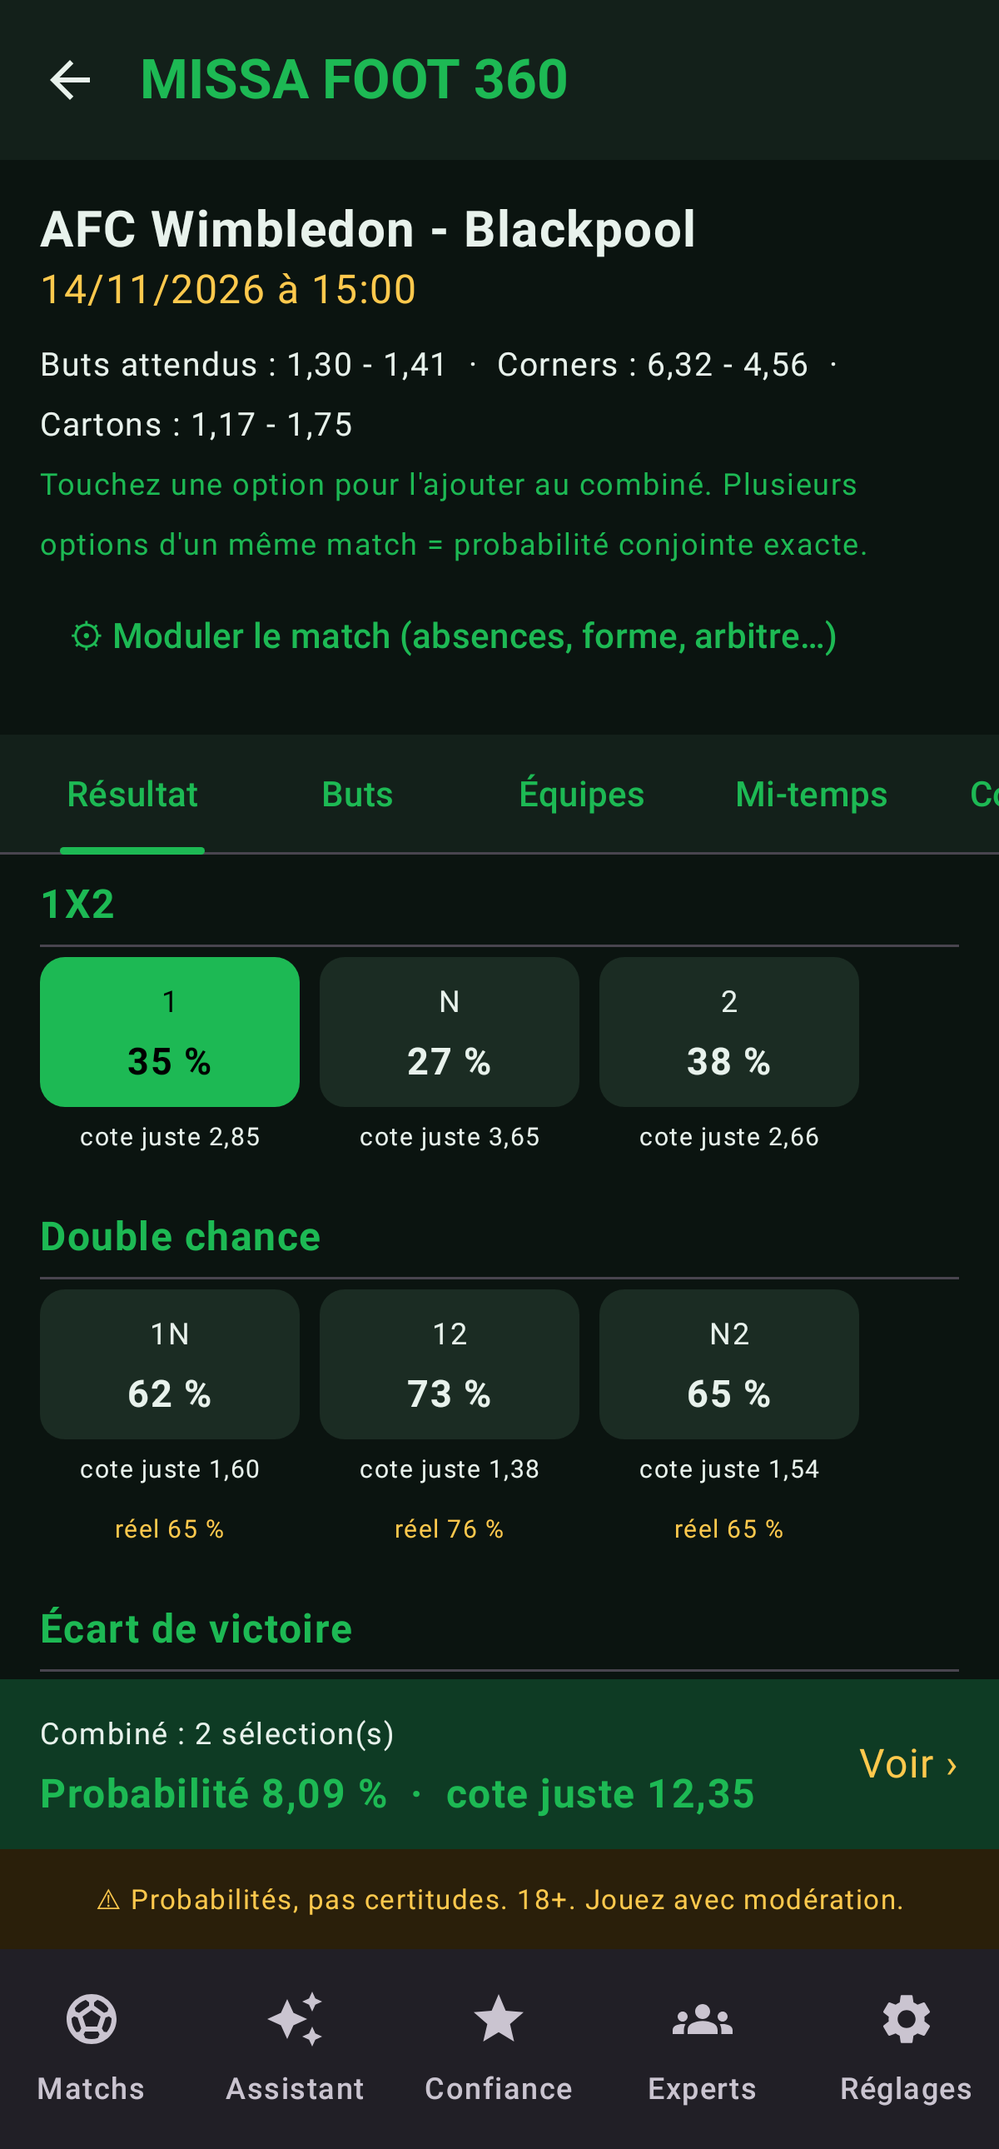
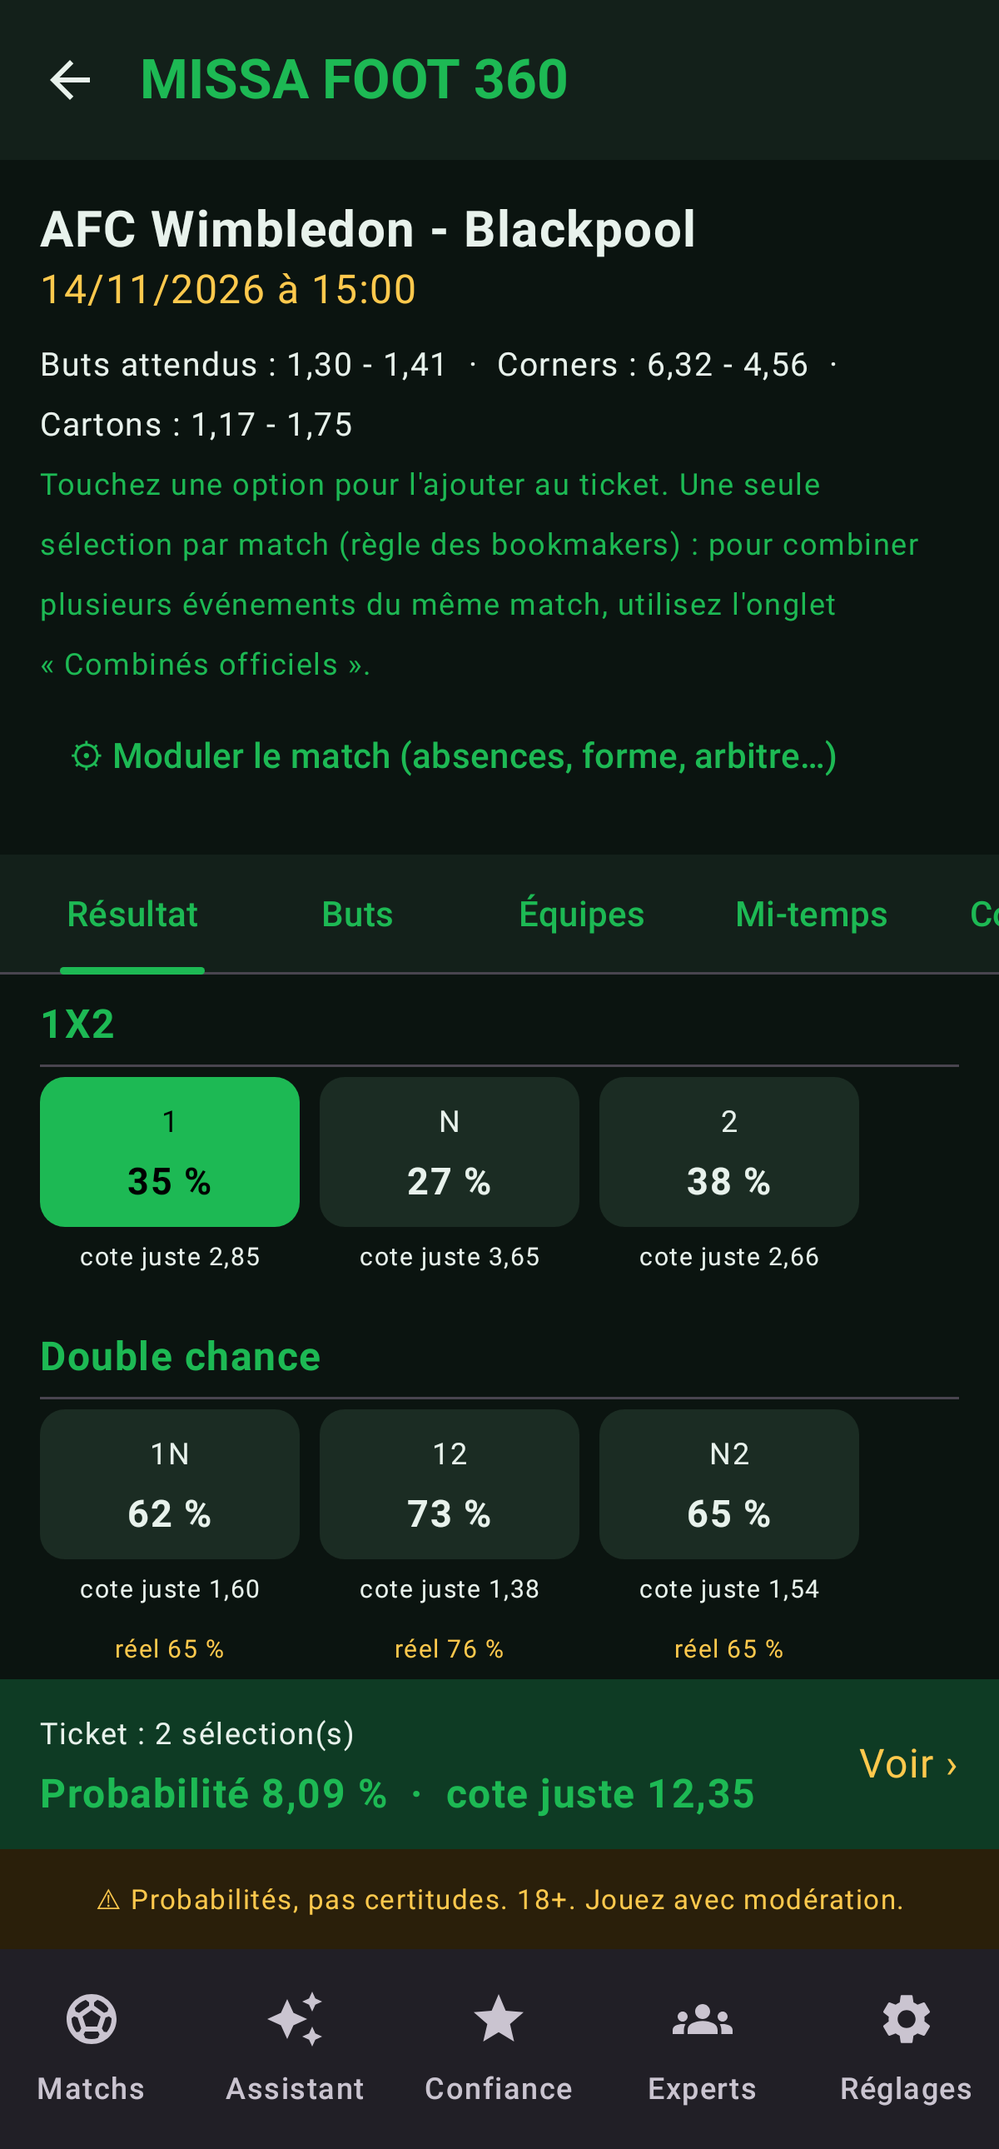
Règle du ticket : une sélection par match (remplacement avec message), 60 sélections max, repère bonus < 1,10 ; mode analyse libre en option ; règle appliquée aussi par l'API
Claude-Session: https://claude.ai/code/session_01JzZ5bfRfBm6NJrwqaGBrNM

diff --git a/android/app/src/main/java/com/missa/foot360/ui/AppViewModel.kt b/android/app/src/main/java/com/missa/foot360/ui/AppViewModel.kt
@@ -12,6 +12,7 @@ import com.missa.foot360.moteur.JambeCombine
 import com.missa.foot360.moteur.Jumeau
 import com.missa.foot360.moteur.Modulation
 import com.missa.foot360.moteur.ParamsJumeau
+import com.missa.foot360.moteur.RegleTicket
 import com.missa.foot360.moteur.ResultatCombine
 import com.missa.foot360.moteur.calculerCombine
 import kotlinx.coroutines.flow.MutableStateFlow
@@ -30,6 +31,8 @@ data class EtatApp(
     val resultat: ResultatCombine? = null,
     val modulations: Map<String, Modulation> = emptyMap(),
     val bonus: Double = 0.0,
+    val unParMatch: Boolean = true,
+    val message: String? = null,
 ) {
     val matchs: Map<String, Match> by lazy {
         pronostics.championnats.flatMap { it.matchs }.associateBy { it.id }
@@ -56,7 +59,23 @@ class AppViewModel(app: Application) : AndroidViewModel(app) {
     val etat: StateFlow<EtatApp> = _etat.asStateFlow()
     private val cacheJumeaux = HashMap<Pair<String, Modulation>, Jumeau>()
 
-    init { charger() }
+    init {
+        _etat.update { it.copy(unParMatch = !depot.plusieursParMatch) }
+        charger()
+    }
+
+    fun messageVu() = _etat.update { it.copy(message = null) }
+
+    /** Mode ticket (une sélection par match, comme chez le bookmaker) ou analyse libre. */
+    fun changerMode(unParMatch: Boolean) {
+        depot.plusieursParMatch = !unParMatch
+        _etat.update { e ->
+            val t = if (unParMatch) RegleTicket.normaliser(e.combi) else e.combi
+            e.copy(unParMatch = unParMatch, combi = t,
+                message = if (unParMatch && t.size < e.combi.size) "Ticket corrigé : une seule sélection gardée par match." else null)
+        }
+        recalculer()
+    }
 
     fun charger() = viewModelScope.launch {
         _etat.update { it.copy(chargement = true) }
@@ -91,20 +110,20 @@ class AppViewModel(app: Application) : AndroidViewModel(app) {
     fun estSelectionne(matchId: String, code: String) =
         _etat.value.combi.any { it.matchId == matchId && it.code == code }
 
-    /** Ajoute ou retire une sélection : la probabilité du combiné est recalculée immédiatement. */
+    /** Ajoute ou retire une sélection en respectant les règles du ticket ; recalcul immédiat. */
     fun basculer(match: Match, code: String, libelle: String) {
         _etat.update { e ->
-            val existe = e.combi.any { it.matchId == match.id && it.code == code }
-            val nouvelle = if (existe) e.combi.filterNot { it.matchId == match.id && it.code == code }
-            else e.combi + JambeCombine(match.id, code, "${match.domicile} - ${match.exterieur}", libelle)
-            e.copy(combi = nouvelle)
+            val r = RegleTicket.basculer(e.combi,
+                JambeCombine(match.id, code, "${match.domicile} - ${match.exterieur}", libelle), e.unParMatch)
+            e.copy(combi = r.ticket, message = r.message)
         }
         recalculer()
     }
 
     fun ajouterPlusieurs(jambes: List<JambeCombine>) {
         _etat.update { e ->
-            e.copy(combi = e.combi + jambes.filter { j -> e.combi.none { it.matchId == j.matchId && it.code == j.code } })
+            val r = RegleTicket.ajouterPlusieurs(e.combi, jambes, e.unParMatch)
+            e.copy(combi = r.ticket, message = r.message)
         }
         recalculer()
     }

diff --git a/android/app/src/main/java/com/missa/foot360/moteur/Ticket.kt b/android/app/src/main/java/com/missa/foot360/moteur/Ticket.kt
@@ -1,0 +1,57 @@
+package com.missa.foot360.moteur
+
+/**
+ * Règles d'un ticket combiné chez un bookmaker (ex. BetPawa) :
+ * - une seule sélection par match : les sélections d'un même match sont dépendantes et ne sont
+ *   pas acceptées ensemble (les combinés officiels « 1X2 & les deux marquent », etc. comptent
+ *   pour UNE sélection) ;
+ * - 60 sélections au maximum ;
+ * - le bonus de gains ne concerne que les sélections à 1,10 ou plus.
+ */
+object RegleTicket {
+    const val MAX_SELECTIONS = 60
+    const val COTE_MIN_BONUS = 1.10
+
+    data class Resultat(val ticket: List<JambeCombine>, val message: String?)
+
+    /** Ajoute (ou retire si déjà présente) une sélection en respectant les règles du ticket. */
+    fun basculer(ticket: List<JambeCombine>, jambe: JambeCombine, unParMatch: Boolean): Resultat {
+        if (ticket.any { it.matchId == jambe.matchId && it.code == jambe.code }) {
+            return Resultat(ticket.filterNot { it.matchId == jambe.matchId && it.code == jambe.code }, null)
+        }
+        if (unParMatch) {
+            val ancienne = ticket.firstOrNull { it.matchId == jambe.matchId }
+            if (ancienne != null) {
+                return Resultat(
+                    ticket.map { if (it.matchId == jambe.matchId) jambe else it },
+                    "« ${ancienne.libelle} » remplacé par « ${jambe.libelle} » : un seul pari par match sur un ticket.",
+                )
+            }
+        }
+        if (ticket.size >= MAX_SELECTIONS) {
+            return Resultat(ticket, "Un ticket est limité à $MAX_SELECTIONS sélections.")
+        }
+        return Resultat(ticket + jambe, null)
+    }
+
+    /** Ajoute plusieurs sélections (assistant) : chacune remplace celle de son match. */
+    fun ajouterPlusieurs(ticket: List<JambeCombine>, jambes: List<JambeCombine>, unParMatch: Boolean): Resultat {
+        var t = ticket
+        var remplacees = 0
+        for (j in jambes) {
+            if (t.any { it.matchId == j.matchId && it.code == j.code }) continue
+            val r = basculer(t, j, unParMatch)
+            if (r.ticket.size == t.size && r.message != null && r.ticket != t) remplacees++
+            t = r.ticket
+        }
+        return Resultat(t, if (remplacees > 0) "$remplacees sélection(s) remplacée(s) : un seul pari par match." else null)
+    }
+
+    /** Passage en mode ticket : on ne garde que la dernière sélection de chaque match. */
+    fun normaliser(ticket: List<JambeCombine>): List<JambeCombine> =
+        ticket.reversed().distinctBy { it.matchId }.reversed()
+
+    /** Sélections dont la cote (saisie, sinon cote juste) est sous le minimum du bonus. */
+    fun horsBonus(ticket: List<JambeCombine>, coteJuste: (JambeCombine) -> Double?): List<JambeCombine> =
+        ticket.filter { j -> (j.cote ?: coteJuste(j))?.let { it < COTE_MIN_BONUS } == true }
+}

diff --git a/android/app/src/main/java/com/missa/foot360/ui/EcranCombi.kt b/android/app/src/main/java/com/missa/foot360/ui/EcranCombi.kt
@@ -45,7 +45,7 @@ fun BarreCombi(etat: EtatApp, ouvrir: () -> Unit) {
         verticalAlignment = Alignment.CenterVertically,
     ) {
         Column(Modifier.weight(1f)) {
-            Text("Combiné : ${etat.combi.size} sélection(s)", fontSize = 12.sp)
+            Text((if (etat.unParMatch) "Ticket" else "Combiné libre") + " : ${etat.combi.size} sélection(s)", fontSize = 12.sp)
             if (r.proba == 0.0) Text("Sélections incompatibles (probabilité nulle)",
                 fontWeight = FontWeight.Bold, color = Rouge)
             else Text("Probabilité ${pct(r.proba, 2)}  ·  cote juste ${cote(r.coteJuste)}",
@@ -60,7 +60,7 @@ fun EcranCombi(etat: EtatApp, vm: AppViewModel) {
     val r = etat.resultat
     LazyColumn(contentPadding = PaddingValues(16.dp)) {
         item {
-            Text("Mon combiné", fontSize = 20.sp, fontWeight = FontWeight.Bold)
+            Text(if (etat.unParMatch) "Mon ticket" else "Mon combiné (analyse libre)", fontSize = 20.sp, fontWeight = FontWeight.Bold)
             Spacer(Modifier.height(4.dp))
             Text("La probabilité est recalculée à chaque modification. Saisissez la cote de votre " +
                 "bookmaker pour voir la valeur du combiné.", fontSize = 12.sp)
@@ -118,8 +118,13 @@ fun EcranCombi(etat: EtatApp, vm: AppViewModel) {
                     }
                     Text("Sur 100 combinés identiques, environ ${"%.0f".format(r.proba * 100)} seraient gagnants.",
                         fontSize = 12.sp)
-                    if (r.memeMatch) Text("Plusieurs sélections sur un même match : la corrélation est prise " +
-                        "en compte. Beaucoup de bookmakers refusent ou ajustent ces combinés.", fontSize = 12.sp, color = Or)
+                    if (r.memeMatch) Text("Analyse libre : plusieurs sélections sur un même match (corrélation prise " +
+                        "en compte). Ce ticket ne serait PAS accepté tel quel par un bookmaker.", fontSize = 12.sp, color = Rouge)
+                    val hors = com.missa.foot360.moteur.RegleTicket.horsBonus(etat.combi) { j ->
+                        vm.proba(j.matchId, j.code)?.let { if (it > 0) 1 / it else null } }
+                    if (hors.isNotEmpty()) Text("${hors.size} sélection(s) à moins de 1,10 : en général non prise(s) en " +
+                        "compte pour le bonus de gains.", fontSize = 12.sp, color = Or)
+                    Text("${etat.combi.size} / ${com.missa.foot360.moteur.RegleTicket.MAX_SELECTIONS} sélections.", fontSize = 11.sp)
                     if (r.proba < 0.05 && r.proba > 0) Text("Combiné très improbable (moins de 1 chance sur 20).",
                         fontSize = 12.sp, color = Rouge)
                     if (r.proba == 0.0) Text("Sélections incompatibles entre elles.", fontSize = 12.sp, color = Rouge)

diff --git a/android/app/src/test/java/com/missa/foot360/TicketTest.kt b/android/app/src/test/java/com/missa/foot360/TicketTest.kt
@@ -1,0 +1,54 @@
+package com.missa.foot360
+
+import com.missa.foot360.moteur.JambeCombine
+import com.missa.foot360.moteur.RegleTicket
+import org.junit.Assert.assertEquals
+import org.junit.Assert.assertNotNull
+import org.junit.Assert.assertNull
+import org.junit.Test
+
+class TicketTest {
+    private fun j(m: String, c: String, cote: Double? = null) = JambeCombine(m, c, m, c, cote)
+
+    @Test
+    fun unSeulPariParMatch() {
+        var r = RegleTicket.basculer(emptyList(), j("a", "1X2:1"), true)
+        r = RegleTicket.basculer(r.ticket, j("b", "OU:2.5:plus"), true)
+        r = RegleTicket.basculer(r.ticket, j("a", "BTTS:oui"), true)   // même match : remplace
+        assertEquals(listOf("BTTS:oui", "OU:2.5:plus"), r.ticket.map { it.code })
+        assertNotNull(r.message)
+        // un combiné officiel est UNE sélection
+        r = RegleTicket.basculer(r.ticket, j("a", "1X2:1 & BTTS:oui"), true)
+        assertEquals(2, r.ticket.size)
+        // toucher à nouveau la même option la retire
+        r = RegleTicket.basculer(r.ticket, j("b", "OU:2.5:plus"), true)
+        assertEquals(listOf("1X2:1 & BTTS:oui"), r.ticket.map { it.code })
+        assertNull(r.message)
+    }
+
+    @Test
+    fun modeAnalyseLibre() {
+        var r = RegleTicket.basculer(emptyList(), j("a", "1X2:1"), false)
+        r = RegleTicket.basculer(r.ticket, j("a", "BTTS:oui"), false)
+        assertEquals(2, r.ticket.size)
+        assertEquals(listOf("BTTS:oui"), RegleTicket.normaliser(r.ticket).map { it.code })
+    }
+
+    @Test
+    fun limitesEtBonus() {
+        var t = (1..60).map { j("m$it", "1X2:1") }
+        val r = RegleTicket.basculer(t, j("m61", "1X2:1"), true)
+        assertEquals(60, r.ticket.size)
+        assertNotNull(r.message)
+        t = listOf(j("a", "DC:1N", 1.05), j("b", "1X2:1", 1.8), j("c", "1X2:1"))
+        val hors = RegleTicket.horsBonus(t) { if (it.matchId == "c") 1.08 else 2.0 }
+        assertEquals(listOf("a", "c"), hors.map { it.matchId })
+    }
+
+    @Test
+    fun assistantRemplace() {
+        val t = listOf(j("a", "1X2:1"), j("b", "1X2:2"))
+        val r = RegleTicket.ajouterPlusieurs(t, listOf(j("a", "DC:1N"), j("c", "OU:1.5:plus")), true)
+        assertEquals(listOf("DC:1N", "1X2:2", "OU:1.5:plus"), r.ticket.map { it.code })
+    }
+}

diff --git a/android/app/src/main/java/com/missa/foot360/ui/EcransAutres.kt b/android/app/src/main/java/com/missa/foot360/ui/EcransAutres.kt
@@ -14,6 +14,7 @@ import androidx.compose.foundation.lazy.items
 import androidx.compose.material3.Button
 import androidx.compose.material3.Card
 import androidx.compose.material3.OutlinedTextField
+import androidx.compose.material3.Switch
 import androidx.compose.material3.Text
 import androidx.compose.runtime.Composable
 import androidx.compose.runtime.getValue
@@ -101,6 +102,17 @@ fun EcranReglages(vm: AppViewModel, etat: EtatApp) {
         Spacer(Modifier.height(8.dp))
         Text(if (etat.horsLigne) "État : hors ligne (données de démonstration)${etat.erreur?.let { " — $it" } ?: ""}"
             else "État : connecté — pronostics générés le ${etat.pronostics.genere_le}", fontSize = 12.sp)
+        Spacer(Modifier.height(20.dp))
+        Text("Règles du ticket", fontWeight = FontWeight.Bold, color = Vert)
+        Row(verticalAlignment = Alignment.CenterVertically) {
+            Column(Modifier.weight(1f)) {
+                Text("Une seule sélection par match", fontSize = 14.sp)
+                Text(if (etat.unParMatch) "Comme chez les bookmakers (BetPawa…) : une nouvelle option du même match remplace l'ancienne."
+                    else "Analyse libre : plusieurs événements d'un même match (probabilité conjointe). Non jouable tel quel.",
+                    fontSize = 11.sp)
+            }
+            Switch(checked = etat.unParMatch, onCheckedChange = { vm.changerMode(it) })
+        }
         Spacer(Modifier.height(20.dp))
         Text("Jeu responsable", fontWeight = FontWeight.Bold, color = Or)
         Text("Les pronostics sont des probabilités, jamais des certitudes. Ne misez que ce que vous " +

diff --git a/android/app/src/main/java/com/missa/foot360/ui/EcranDetail.kt b/android/app/src/main/java/com/missa/foot360/ui/EcranDetail.kt
@@ -55,8 +55,12 @@ fun EcranDetail(m: Match?, etat: EtatApp, vm: AppViewModel) {
                 val bd = j?.let { (0 until it.matrice.size).sumOf { i -> i * it.matrice[i].sum() } }
                 val be = j?.let { (0 until it.matrice.size).sumOf { k -> k * it.matrice.sumOf { r -> r[k] } } }
                 Text("Buts attendus : ${cote(bd)} - ${cote(be)}  ·  Corners : ${m.corners_attendus.joinToString(" - ") { cote(it) }}  ·  Cartons : ${m.cartons_attendus.joinToString(" - ") { cote(it) }}", fontSize = 13.sp)
-                Text("Touchez une option pour l'ajouter au combiné. Plusieurs options d'un même match = probabilité conjointe exacte.",
-                    fontSize = 12.sp, color = Vert)
+                Text(if (etat.unParMatch)
+                    "Touchez une option pour l'ajouter au ticket. Une seule sélection par match (règle des bookmakers) : " +
+                        "pour combiner plusieurs événements du même match, utilisez l'onglet « Combinés officiels »."
+                else "Mode analyse libre : plusieurs options d'un même match = probabilité conjointe exacte " +
+                    "(non jouable tel quel chez un bookmaker).",
+                    fontSize = 12.sp, color = if (etat.unParMatch) Vert else Or)
                 TextButton(onClick = { voirModulation = !voirModulation }) {
                     Text(if (mod.neutre) "⚙ Moduler le match (absences, forme, arbitre…)" else "⚙ Modulation active — modifier")
                 }

diff --git a/android/app/src/main/java/com/missa/foot360/MainActivity.kt b/android/app/src/main/java/com/missa/foot360/MainActivity.kt
@@ -20,6 +20,10 @@ import androidx.compose.material3.IconButton
 import androidx.compose.material3.NavigationBar
 import androidx.compose.material3.NavigationBarItem
 import androidx.compose.material3.Scaffold
+import androidx.compose.material3.SnackbarDuration
+import androidx.compose.material3.SnackbarHost
+import androidx.compose.material3.SnackbarHostState
+import androidx.compose.runtime.LaunchedEffect
 import androidx.compose.material3.Text
 import androidx.compose.material3.TextButton
 import androidx.compose.material3.TopAppBar
@@ -85,7 +89,13 @@ fun Application(vm: AppViewModel) {
         )
     }
 
+    val snack = remember { SnackbarHostState() }
+    LaunchedEffect(etat.message) {
+        etat.message?.let { snack.showSnackbar(it, duration = SnackbarDuration.Short); vm.messageVu() }
+    }
+
     Scaffold(
+        snackbarHost = { SnackbarHost(snack) },
         topBar = {
             TopAppBar(
                 title = { Text("MISSA FOOT 360", fontWeight = FontWeight.Bold, color = Vert) },

diff --git a/android/app/src/main/java/com/missa/foot360/data/Depot.kt b/android/app/src/main/java/com/missa/foot360/data/Depot.kt
@@ -22,6 +22,11 @@ class Depot(private val context: Context) {
         get() = prefs.getString("url_api", BuildConfig.API_PAR_DEFAUT) ?: BuildConfig.API_PAR_DEFAUT
         set(v) = prefs.edit().putString("url_api", v.trim().trimEnd('/')).apply()
 
+    /** Mode « analyse libre » : plusieurs sélections par match (non jouable chez un bookmaker). */
+    var plusieursParMatch: Boolean
+        get() = prefs.getBoolean("plusieurs_par_match", false)
+        set(v) = prefs.edit().putBoolean("plusieurs_par_match", v).apply()
+
     var majeurConfirme: Boolean
         get() = prefs.getBoolean("majeur", false)
         set(v) = prefs.edit().putBoolean("majeur", v).apply()

diff --git a/android/app/src/test/java/com/missa/foot360/CapturesEcransTest.kt b/android/app/src/test/java/com/missa/foot360/CapturesEcransTest.kt
@@ -58,6 +58,8 @@ class CapturesEcransTest {
         regle.onNodeWithText("Buts").performScrollTo().performClick()
         regle.waitForIdle()
         regle.onAllNodesWithText("Plus de 1,5", useUnmergedTree = true)[0].performClick()
+        regle.waitForIdle()
+        regle.onRoot().captureRoboImage("../../docs/captures/8_remplacement.png")
         regle.onNodeWithText("Moduler le match", substring = true).performClick()
         regle.waitForIdle()
         regle.onRoot().captureRoboImage("../../docs/captures/4_modulation.png")

diff --git a/missa/jumeau.py b/missa/jumeau.py
@@ -277,11 +277,16 @@ class JumeauMatch:
                 "cartons": [round(float(v), 4) for v in self.cartons]}
 
 
-def proba_combine(legs: list[tuple[str, str]], jumeaux: dict[str, JumeauMatch]) -> dict:
-    """legs = [(match_id, sélection), ...] -> probabilité du combiné et détail par match."""
+def proba_combine(legs: list[tuple[str, str]], jumeaux: dict[str, JumeauMatch],
+                  un_par_match: bool = False) -> dict:
+    """legs = [(match_id, sélection), ...] -> probabilité du combiné et détail par match.
+    un_par_match=True applique la règle des bookmakers : une seule sélection par match
+    (les combinés officiels « A & B » comptent pour une sélection)."""
     par_match: dict[str, list[str]] = {}
     for mid, sel in legs:
         par_match.setdefault(mid, []).append(sel)
+    if un_par_match and any(len(v) > 1 for v in par_match.values()):
+        raise ValueError("Une seule sélection par match sur un ticket (règle des bookmakers)")
     detail = {mid: jumeaux[mid].proba(sels) for mid, sels in par_match.items()}
     p = float(np.prod(list(detail.values()))) if detail else 0.0
     return {"proba": p, "cote_juste": 1 / p if p > 0 else None, "par_match": detail,

diff --git a/api/main.py b/api/main.py
@@ -146,6 +146,7 @@ class JambeIn(BaseModel):
 
 class ProbabiliteIn(BaseModel):
     selections: list[JambeIn]
+    un_par_match: bool = True  # règle des bookmakers ; False = analyse libre
     modulations: dict[str, ModulationIn] = {}
 
 
@@ -170,7 +171,7 @@ def probabilite(q: ProbabiliteIn):
                 J = J.moduler(**q.modulations[s.match_id].model_dump())
             jumeaux[s.match_id] = J
     try:
-        return proba_combine([(s.match_id, s.selection) for s in q.selections], jumeaux)
+        return proba_combine([(s.match_id, s.selection) for s in q.selections], jumeaux, q.un_par_match)
     except (KeyError, ValueError, IndexError) as e:
         raise HTTPException(400, f"Sélection invalide : {e}")
 

diff --git a/tests/test_api.py b/tests/test_api.py
@@ -63,3 +63,11 @@ def test_probabilite_jumeau(client):
     assert mod["proba"] < base["proba"]
     assert client.post("/probabilite", json={"selections": [
         {"match_id": "m1", "selection": "INCONNU:1"}]}).status_code == 400
+
+
+def test_un_pari_par_match(client):
+    deux = [{"match_id": "m1", "selection": "1X2:1"}, {"match_id": "m1", "selection": "BTTS:oui"}]
+    assert client.post("/probabilite", json={"selections": deux}).status_code == 400
+    assert client.post("/probabilite", json={"selections": deux, "un_par_match": False}).status_code == 200
+    officiel = [{"match_id": "m1", "selection": "1X2:1 & BTTS:oui"}]
+    assert client.post("/probabilite", json={"selections": officiel}).status_code == 200
